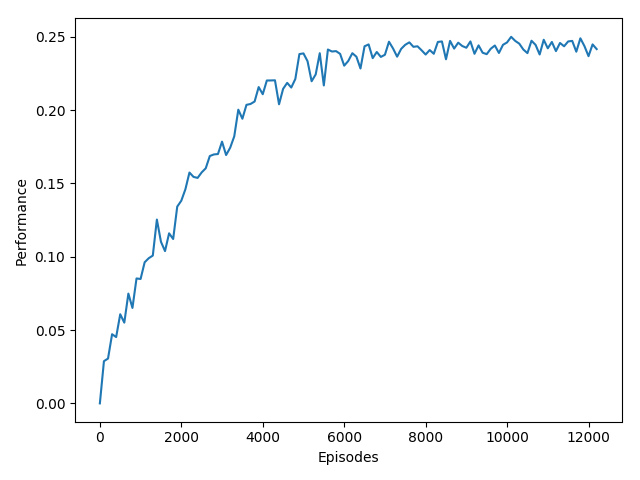
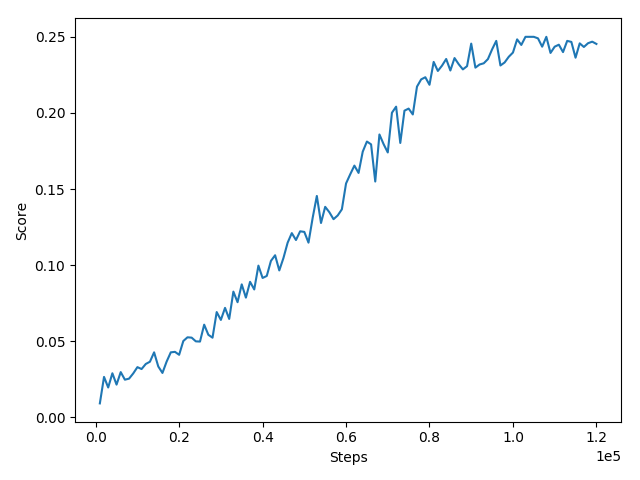
-

diff --git a/Reinforce/PopulationBasedTraining/manager.py b/Reinforce/PopulationBasedTraining/manager.py
@@ -1,7 +1,5 @@
 from multiprocessing import Process, Pipe
 from Reinforce.PopulationBasedTraining.truncated_selection import select_top_worker
-from Reinforce.reinforce import Model
-from Reinforce.runner import Runner
 import time
 
 class Worker:
@@ -11,11 +9,13 @@ class Worker:
 
 class Manager():
 
-    def __init__(self, env, runner_params, model_params):
-        self.env = env
+    def __init__(self, init_env, runner, runner_params, model, model_params):
+        self.init_env = init_env
         self.population = []
+        self.runner = runner
         self.runner_params = runner_params
         self.model_params = model_params
+        self.model = model
         self.num_workers = self.runner_params["num_workers"]
         self.population = None
         self.start_processes()
@@ -29,15 +29,16 @@ class Manager():
                 Process(target=self.train_worker,
                         args=(worker_id,
                               childs[worker_id],
+                              self.runner,
                               self.runner_params,
+                              self.model,
                               self.model_params,
-                              self.env)
+                              self.init_env)
                         ))
 
         # Start the process’s activity.
         for process in processes:
             process.start()
-
 
     def debug(self, worker_id, best_worker_id):
         print("Replace worker {} ({:.2f}) with worker {} ({:.2f})"
@@ -61,18 +62,16 @@ class Manager():
                     self.debug(worker_id, best_worker_id)
                 self.parents[worker_id].send(best_worker_id)
 
-
         # receive performance and update population
         for parent in self.parents:
             worker_id, performance = parent.recv()
             print("Worker {} performance {}".format(worker_id, performance))
             self.population[worker_id].performance = performance
 
-
-    def train_worker(self, worker_id, child, runner_params, model_params, env):
-
-        model = Model(model_params)
-        runner = Runner(env=env,
+    def train_worker(self, worker_id, child, runner, runner_params, model, model_params, init_env):
+        env = init_env(worker_id)
+        model = model(model_params)
+        runner = runner(env=env,
                         model=model,
                         model_params = model_params,
                         runner_params=runner_params,
@@ -86,11 +85,12 @@ class Manager():
                 model.load(best_worker_id)  # load best model parameters
                 model.explore()
 
-            for i in range(0, runner_params["ready_steps"]):
-                observations, rewards, actions = runner.step()
-                model.train(observations, rewards, actions)
-                performance = runner.average_episodic_performance
+            ready_steps = runner_params["ready_steps"]
+            step_count_start = runner.step_count
+
+            while (runner.step_count - step_count_start) < ready_steps:
+                runner.run()
 
             model.save(worker_id)
             time.sleep(1)
-            child.send((worker_id, performance))  # stop while loop
+            child.send((worker_id, runner.average_episodic_performance))  # stop while loop

diff --git a/Reinforce/runner.py b/Reinforce/runner.py
@@ -15,11 +15,12 @@ class Runner():
         self.average_episodic_performance = 0
         self.episode = 0
 
-        self.performance_num_episode = runner_params["performance_num_episode"]
+        self.performance_num_episodes = runner_params["performance_num_episodes"]
         self.batch_size = model_params["batch_size"]
         self.save_summary_steps = runner_params["save_summary_steps"]
 
         self.file_writer = summary.FileWriter(runner_params["summary_log_dir"])
+        self.step_count = 0
 
     def env_step(self, action):
         observation, reward, done, _ = self.env.step(action)
@@ -28,21 +29,25 @@ class Runner():
         return observation, reward, done
 
     def evaluate(self, reward, done):
+        self.step_count += 1
+
         self.episodic_rewards.append(reward)
         if done:
             self.episodic_performance.append(sum(self.episodic_rewards) / len(self.episodic_rewards))
             self.episodic_rewards = []
-
-            if (self.episode % self.save_summary_steps) == 0 and (self.episode != 0):
-                #print("{}   {}".format(self.episode, self.average_episodic_performance))
-                self.file_writer.add_summary(self.worker_id, self.episode, self.average_episodic_performance)
             self.episode += 1
 
-        if len(self.episodic_performance) == self.performance_num_episode:
-            self.average_episodic_performance = sum(self.episodic_performance)/self.performance_num_episode
+        # summary
+        if (self.step_count % self.save_summary_steps) == 0:
+            #print("{}   {}".format(self.episode, self.average_episodic_performance))
+            self.file_writer.add_summary(self.worker_id, self.step_count, self.average_episodic_performance)
+
+        # average episodic performance
+        if len(self.episodic_performance) == self.performance_num_episodes:
+            self.average_episodic_performance = sum(self.episodic_performance)/self.performance_num_episodes
             self.episodic_performance.pop(0)
 
-    def step(self):
+    def run(self):
         batch_observations = []
         batch_rewards = []
         batch_actions = []
@@ -59,4 +64,5 @@ class Runner():
 
             if len(batch_observations) == self.batch_size:
                 discounted_rewards = discount(batch_rewards, batch_dones, self.discount_rate)
-                return batch_observations, discounted_rewards, batch_actions
+                self.model.train(batch_observations, discounted_rewards, batch_actions)
+                break

diff --git a/Reinforce/run_reinforce.py b/Reinforce/run_reinforce.py
@@ -2,14 +2,19 @@ from Reinforce.Environment.catch import Catch
 from Reinforce.policies import PolicyFullyConnected
 from Reinforce.PopulationBasedTraining.manager import Manager
 from Summary import summary
+from Reinforce.reinforce import Model
+from Reinforce.runner import Runner
+
+def init_env(seed):
+    return Catch(5)
 
 def run():
-    env = Catch(5)
+
     model_params = {
         "policy": PolicyFullyConnected,
         "num_envs": 1,
-        "observation_space": env.observation_space,
-        "action_space": env.action_space,
+        "observation_space": [5, 5],
+        "action_space": 8,
         "learning_rate": 0.01,
         "discount_rate": 0.99,
         "batch_size": 10
@@ -17,24 +22,27 @@ def run():
 
     runner_params = {
         "num_workers": 5,
-        "ready_steps": 1000, # Number of steps until model is ready.
-        "performance_num_episode": 10,  # Number of episodes to measure model's average performance.
-        "save_summary_steps": 100,
+        "ready_steps": 20000, # Number of steps until model is ready.
+        "performance_num_episodes": 10,  # Number of episodes to measure model's average performance.
+        "save_summary_steps": 1000,
         "summary_log_dir": "Test",
     }
 
-    manager = Manager(env=env,
-                      runner_params = runner_params,
+    manager = Manager(init_env=init_env,
+                      runner=Runner,
+                      runner_params=runner_params,
+                      model=Model,
                       model_params=model_params
                       )
 
-    time_steps = 10
+    time_steps = 6
     for i in range(0, time_steps):
         manager.step()
         # worker are synchronized
 
     file_reader = summary.FileReader("Test")
     file_reader.plot(True)
+
 
 def main():
     run()

diff --git a/Reinforce/test_saver.py b/Reinforce/test_saver.py
@@ -10,11 +10,17 @@ class TestSaver(unittest.TestCase):
         rewards = [1.0]
         observations = [[[0.1, 0.3], [0.4, 0.9]]]
         actions = [1.0]
-        batch_size = 1
-        policy = PolicyFullyConnected
 
-        model = Model(policy=policy, batch_size=batch_size, num_envs=1, observation_space=[2, 2], action_space=2,
-                      learning_rate=0.01)
+        model_params = {
+            "policy": PolicyFullyConnected,
+            "num_envs": 1,
+            "observation_space": [2,2],
+            "action_space": 2,
+            "learning_rate": 0.01,
+            "batch_size": 1
+        }
+
+        model = Model(model_params)
 
         print("***********************")
         print("Save:")

diff --git a/Summary/matplot.py b/Summary/matplot.py
@@ -2,9 +2,10 @@ from matplotlib import pyplot
 
 def plot(x, y, save):
     pyplot.plot(x, y)
-    pyplot.xlabel("Episodes")
-    pyplot.ylabel("Performance")
+    pyplot.xlabel("Steps")
+    pyplot.ylabel("Score")
     pyplot.tight_layout()
+    pyplot.ticklabel_format(style='sci', axis='x', scilimits=(0, 0))
 
     if save:
         pyplot.savefig("../Logs/summary.png")
